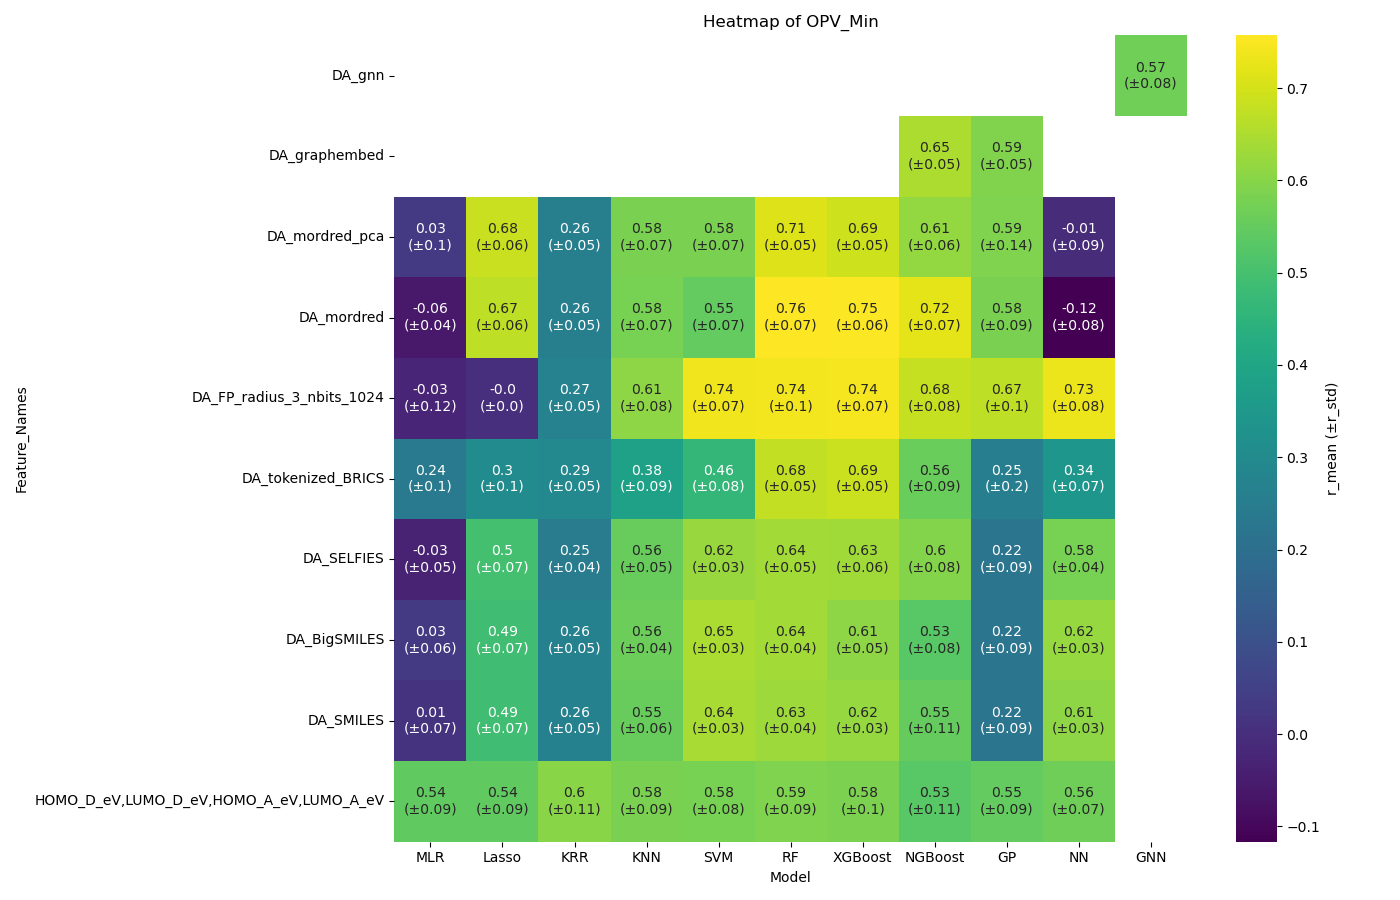
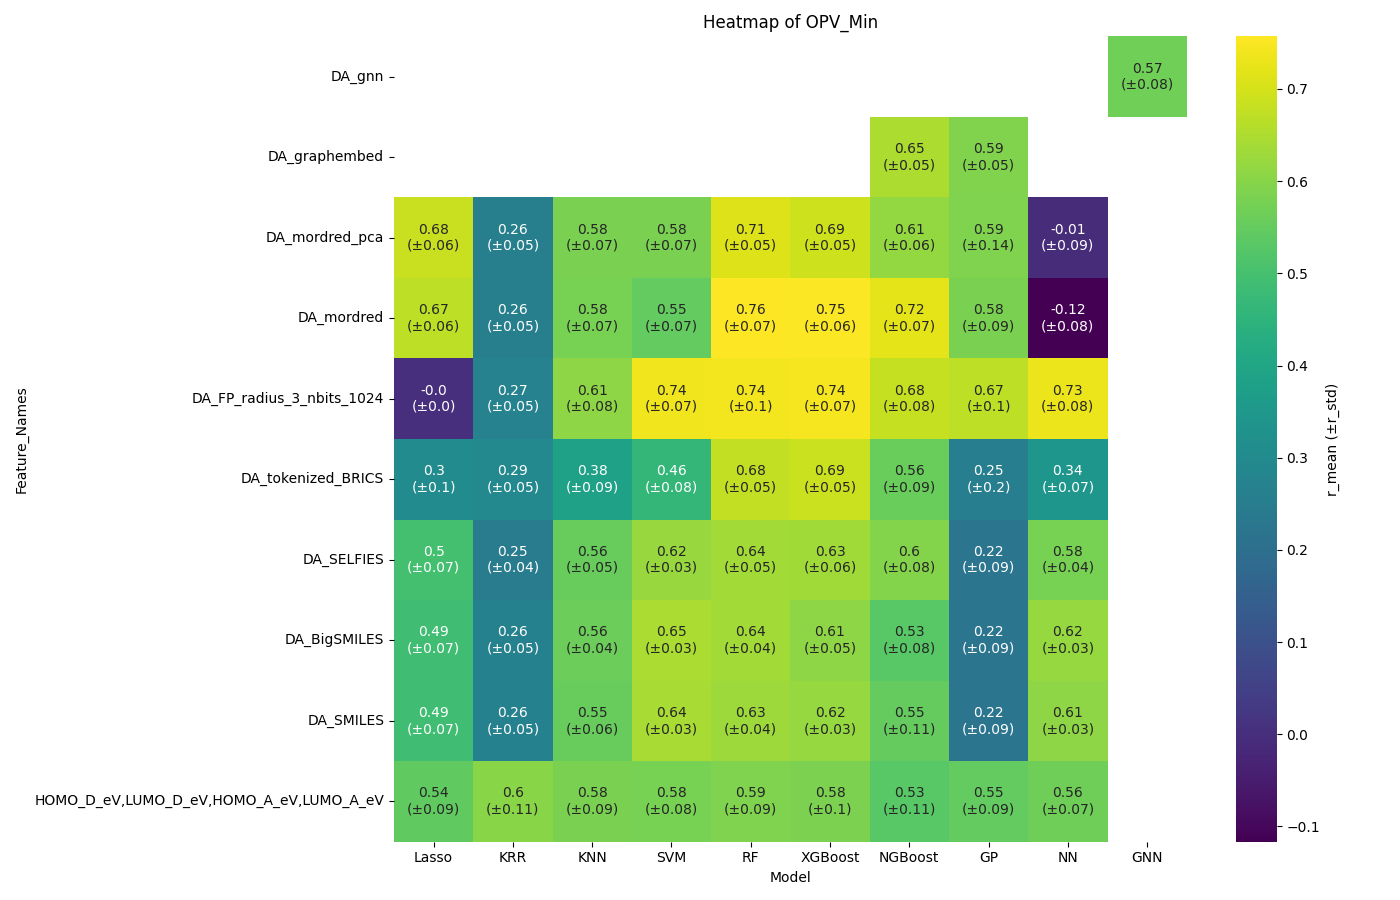
visualized initial multi-objective

diff --git a/ml_for_opvs/visualization/heatmap.py b/ml_for_opvs/visualization/heatmap.py
@@ -54,31 +54,33 @@ def heatmap(config: dict):
     std_metric: str = config["metrics"] + "_std"
 
     # Order of X/Y-axes
-    x = [
-        # "MLR", # ignored for rmse and mae
-        "Lasso",
-        "KRR",
-        "KNN",
-        "SVM",
-        "RF",
-        "XGBoost",
-        "NGBoost",
-        "GP",
-        "NN",
-        "GNN",
-    ]
-    y = [
-        "DA_gnn",
-        "DA_graphembed",
-        "DA_mordred_pca",
-        "DA_mordred",
-        "DA_FP_radius_3_nbits_1024",
-        "DA_tokenized_BRICS",
-        "DA_SELFIES",
-        "DA_BigSMILES",
-        "DA_SMILES",
-        "HOMO_D_eV,LUMO_D_eV,HOMO_A_eV,LUMO_A_eV",
-    ]
+    # x = [
+    #     # "MLR", # ignored for rmse and mae
+    #     "Lasso",
+    #     "KRR",
+    #     "KNN",
+    #     "SVM",
+    #     "RF",
+    #     "XGBoost",
+    #     "NGBoost",
+    #     "GP",
+    #     "NN",
+    #     "GNN",
+    # ]
+    # y = [
+    #     "DA_gnn",
+    #     "DA_graphembed",
+    #     "DA_mordred_pca",
+    #     "DA_mordred",
+    #     "DA_FP_radius_3_nbits_1024",
+    #     "DA_tokenized_BRICS",
+    #     "DA_SELFIES",
+    #     "DA_BigSMILES",
+    #     "DA_SMILES",
+    #     "HOMO_D_eV,LUMO_D_eV,HOMO_A_eV,LUMO_A_eV",
+    # ]
+    x= ["RF", "RF_ensemble", "RF_multi", "XGBoost", "XGBoost_ensemble", "XGBoost_multi", "SVM", "SVM_ensemble", "SVM_multi"]
+    y = ["DA_FP_radius_3_nbits_1024"]
 
     # Heatmap
     mean_summary: pd.DataFrame = summary.pivot("Feature_Names", "Model", mean_metric)
